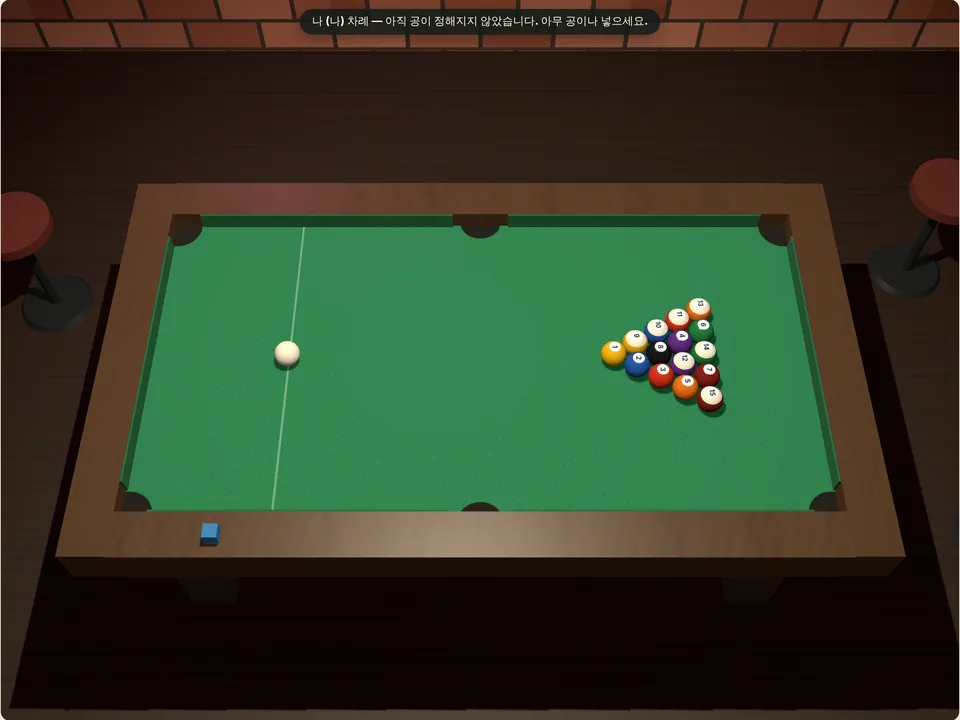
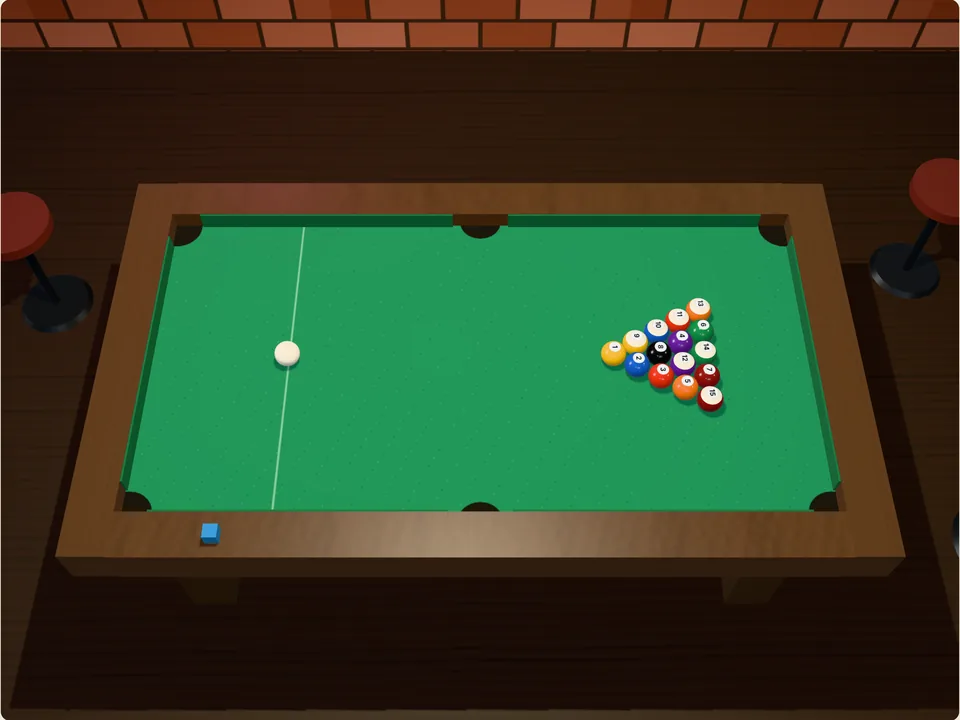
Chess, pocket ball and the grill are lit the more photographic way
Claude-Session: https://claude.ai/code/session_01Uedx1uYtd54DPXXtQh77nN

diff --git a/src/engine/scene-utils.ts b/src/engine/scene-utils.ts
@@ -1,4 +1,5 @@
 import * as T from "three";
+import { RoomEnvironment } from "three/examples/jsm/environments/RoomEnvironment.js";
 const ndc = new T.Vector2();
 /** Points `ray` from the camera through the pointer's place on the canvas. */
 export function aim(ray: T.Raycaster, e: PointerEvent, canvas: HTMLCanvasElement, camera: T.Camera) {
@@ -95,4 +96,37 @@ export function wood(dark = false, grain = 1) {
   texture.colorSpace = T.SRGBColorSpace;
   texture.wrapS = texture.wrapT = T.RepeatWrapping;
   return texture;
+}
+
+/**
+ * A more photographic light for a table. A room is reflected in whatever shines (china, metal, glass, glazed
+ * pieces), highlights roll off as on film instead of clipping, shadows have soft edges, and a weak light from the
+ * far side and one from behind give the pieces a second lit edge.
+ */
+export function realism(renderer: T.WebGLRenderer, scene: T.Scene, exposure = 1) {
+  renderer.toneMapping = T.NeutralToneMapping;
+  renderer.toneMappingExposure = exposure;
+  renderer.shadowMap.type = T.PCFSoftShadowMap;
+  const pmrem = new T.PMREMGenerator(renderer),
+    room = new RoomEnvironment(),
+    reflected = pmrem.fromScene(room, 0.04).texture;
+  scene.environment = reflected;
+  scene.environmentIntensity = 0.32;
+  room.dispose();
+  pmrem.dispose();
+  scene.traverse((thing) => {
+    // The room now lights the shaded sides: the flat sky light gives way to it.
+    if (thing instanceof T.HemisphereLight) thing.intensity *= 0.62;
+    else if (thing instanceof T.DirectionalLight && thing.castShadow) {
+      thing.shadow.mapSize.set(2048, 2048);
+      thing.shadow.radius = 5;
+      thing.shadow.blurSamples = 16;
+    }
+  });
+  const fill = new T.DirectionalLight("#cfe0ff", 0.22),
+    rim = new T.DirectionalLight("#fff0d8", 0.4);
+  fill.position.set(7, 5, 3);
+  rim.position.set(2, 6, -9);
+  scene.add(fill, rim);
+  return reflected;
 }

diff --git a/src/games/chess/view.ts b/src/games/chess/view.ts
@@ -1,6 +1,6 @@
 import * as T from "three";
 import type { Chess, Color, Move, PieceSymbol, Square } from "chess.js";
-import { wood, disposeScene, afterGPUFrame, aim } from "../../engine/scene-utils";
+import { wood, disposeScene, afterGPUFrame, aim, realism } from "../../engine/scene-utils";
 import { toWorld, fromWorld, squares } from "./coordinates";
 import {
   FOV,
@@ -86,6 +86,7 @@ export class ChessView {
     });
     sun.shadow.normalBias = 0.025;
     this.scene.add(sun);
+    this.reflected = realism(this.renderer, this.scene);
     const table = new T.Mesh(
       new T.BoxGeometry(80, 0.2, 80),
       new T.MeshStandardMaterial({ map: wood(true), roughness: 0.8 }),
@@ -546,12 +547,14 @@ export class ChessView {
     );
     this.resize(true);
   }
+  private reflected?: T.Texture;
   dispose() {
     if (this.disposed) return;
     this.disposed = true;
     cancelAnimationFrame(this.raf);
     this.observer.disconnect();
     this.cancelGPU();
+    this.reflected?.dispose();
     disposeScene(this.scene);
     disposeScene(this.templates);
     this.tokens.clear();

diff --git a/src/games/table/view.ts b/src/games/table/view.ts
@@ -1,5 +1,5 @@
 import * as T from "three";
-import { afterGPUFrame, aim } from "../../engine/scene-utils";
+import { afterGPUFrame, aim, realism } from "../../engine/scene-utils";
 import { FOV, cameraDistance, type Subject } from "../../engine/camera";
 import type { PointView } from "../../ui/point-game";
 import type { Marks } from "../points/view";
@@ -137,7 +137,12 @@ export abstract class TableView<S> implements PointView<S> {
     this.observer.observe(host);
   }
   /** Starts drawing; called by the game's view once its scene is built. */
+  /** Whether the table is lit the more photographic way (`realism`): a reflected room, film-like highlights, soft shadows. */
+  protected photographic() {
+    return false;
+  }
   protected begin() {
+    if (this.photographic()) this.own(realism(this.renderer, this.scene));
     this.resize();
     const loop = () => {
       this.raf = requestAnimationFrame(loop);

diff --git a/src/games/grill/view.ts b/src/games/grill/view.ts
@@ -279,6 +279,9 @@ interface Model {
  * dragged off to be eaten or onto the wrap plate.
  */
 export class GrillView extends TableView<State> {
+  protected photographic() {
+    return true;
+  }
   private world: World = createWorld();
   private skins = new Map<number, T.CanvasTexture>();
   private faces: { top: T.BufferGeometry; bottom: T.BufferGeometry; rim: T.BufferGeometry }[] = [];

diff --git a/src/games/pool/view.ts b/src/games/pool/view.ts
@@ -65,6 +65,9 @@ function numberDisc(id: number) {
 }
 /** A pool table under a lamp in a pub. */
 export class PoolView extends FlickView<State> {
+  protected photographic() {
+    return true;
+  }
   /** White against the cloth. */
   protected aimColor() {
     return "#ffffff";

diff --git a/README.md b/README.md
@@ -348,7 +348,7 @@ CHROMIUM_PATH=/usr/bin/chromium npm run test:e2e
 - **불 켜기 (Lights On)**: 3×3부터 7×7까지의 등불 판. 누르면 그 불과 상하좌우가 뒤집히며, 모든 불을 켜면 성공입니다. 문제는 다 켜진 판에서 무작위로 눌러 만들어 반드시 풀리고, 최소 횟수는 GF(2) 소거로 구합니다(`solve` in `lights/rules.ts`). '라이츠 아웃'으로 알려진 퍼즐을 거꾸로 한 것이며 이름은 일반 이름을 씁니다. 퍼즐 판을 씁니다.
 - **지뢰찾기 (Minesweeper)**: 쉬움 8×8(지뢰 10), 보통 12×10(20), 어려움 18×12(40). 지뢰는 첫 칸을 연 뒤 그 칸과 둘레를 피해 묻힙니다. 깃발 꽂기 버튼(F)으로 깃발을 꽂고, 깃발 수가 맞는 숫자를 누르면 둘레가 한꺼번에 열립니다. 무르기는 없습니다.
 - **과일 합치기 (Fruit Merge)**: 유리 상자에 과일을 떨어뜨려 같은 과일끼리 합칩니다(블루베리 → 체리 → 라임 → 자두 → 귤 → 사과 → 자몽 → 코코넛 → 멜론 → 수박). 실시간이며 일시정지할 수 있습니다. 상자는 `fruit/sim.ts`가 고정 간격으로 계산하고(Three.js·DOM 없음), 화면은 떨어뜨림·합쳐짐·넘침만 수로 보고합니다. '수박 게임'으로 알려진 놀이이며 과일의 종류·순서·그림은 따로 만들었습니다.
-- **고기 굽기 (Meat Grill)**: 숯불 화로를 가운데 둔 고깃집 식탁을 위에서 본 3D 화면입니다. 양옆 접시 다섯 개(삼겹살·양념갈비·차돌박이·목살·새송이버섯)의 고기를 불판 일곱 자리로 **끌어다 놓고**, 눌러서 몇 번이든 뒤집고, 불판 밖으로 끌어내 먹습니다. 접시가 비면 바로 채워집니다. 아래쪽 면만 익으며, 눈금 없이 연기와 고기 색으로 익은 정도를 알아봅니다(옅은 연기 1점, 흰 연기 3점, 양쪽 다 딱 좋으면 6점). 큰 접시에 쌈채소·고기(두 점까지)·양념(김치·쌈장·마늘·고추·기름장)을 올려 **쌈**을 싸 먹으면 고기 점수에 쌈 2점과 양념 한 가지당 1점(세 가지까지)이 붙습니다. **일반 모드**(120초 동안 점수 내기)와 **무제한 모드**가 있습니다. 식탁 상판은 Poly Haven의 CC0 사진 텍스처이고, 삼겹살·양념갈비·차돌박이·목살은 WordPress Photo Directory의 CC0 사진에서 잘라낸 살코기 사진 위에 익은 색을 입힙니다(버섯은 코드로 그립니다; 출처는 `public/textures-license.txt`). 상추와 양념 그릇 네 가지(김치·쌈장·마늘과 고추·기름장)도 같은 곳의 CC0 사진입니다. 실시간이며 일시정지할 수 있습니다. 모두 46종입니다.
+- **고기 굽기 (Meat Grill)**: 숯불 화로를 가운데 둔 고깃집 식탁을 위에서 본 3D 화면입니다. 양옆 접시 다섯 개(삼겹살·양념갈비·차돌박이·목살·새송이버섯)의 고기를 불판 일곱 자리로 **끌어다 놓고**, 눌러서 몇 번이든 뒤집고, 불판 밖으로 끌어내 먹습니다. 접시가 비면 바로 채워집니다. 아래쪽 면만 익으며, 눈금 없이 연기와 고기 색으로 익은 정도를 알아봅니다(옅은 연기 1점, 흰 연기 3점, 양쪽 다 딱 좋으면 6점). 큰 접시에 쌈채소·고기(두 점까지)·양념(김치·쌈장·마늘·고추·기름장)을 올려 **쌈**을 싸 먹으면 고기 점수에 쌈 2점과 양념 한 가지당 1점(세 가지까지)이 붙습니다. **일반 모드**(120초 동안 점수 내기)와 **무제한 모드**가 있습니다. 식탁 상판은 Poly Haven의 CC0 사진 텍스처이고, 삼겹살·양념갈비·차돌박이·목살은 WordPress Photo Directory의 CC0 사진에서 잘라낸 살코기 사진 위에 익은 색을 입힙니다(버섯은 코드로 그립니다; 출처는 `public/textures-license.txt`). 상추와 양념 그릇 네 가지(김치·쌈장·마늘과 고추·기름장)도 같은 곳의 CC0 사진입니다. 체스·포켓볼과 함께 실내 반사와 부드러운 그림자를 쓰는 사실적인 조명으로 그립니다. 실시간이며 일시정지할 수 있습니다. 모두 46종입니다.
 
 - **물 나누기 (Water Pouring)**: 실험실의 눈금 없는 비커 세 개. 부으면 비커를 들어 기울여 붓는 모습과 물줄기가 보입니다. 가장 큰 그릇만 가득 차 있고, 부으면 붓는 쪽이 비거나 받는 쪽이 찰 때까지 옮겨집니다. 목표는 둘 중 하나가 무작위로 정해집니다: 큰 그릇 둘에 **절반씩 나누기**, 또는 **어느 그릇에든 정해진 양 만들기**. 그릇의 크기도 할 때마다 무작위이고, 탐색으로 풀리는 문제만 냅니다(`createGame` in `pour/rules.ts`). **최소 횟수**를 함께 구해 오른쪽 판에 부은 횟수와 나란히 보여 주고, 성공하면 견주어 알려 줍니다. 난이도는 최소 횟수로 나뉩니다(쉬움 2–4, 보통 5–7, 어려움 8번 이상). 구슬치기와 같은 퍼즐 판(난이도·힌트·무르기·처음부터·다른 퍼즐·다음 스테이지)을 씁니다.
 - **강 건너기 (River Crossing)**: 강가의 일행을 작은 배로 모두 건너편에 옮깁니다. 사람과 동물은 코드로 빚은 모형입니다. 스테이지 넷: **농부와 짐**(늑대·염소·양배추, 여우·닭·곡식, 고양이·쥐·치즈 가운데 무작위; 농부만 노를 젓습니다), **양과 늑대**(셋씩, 배에 둘), **질투하는 부부**(세 쌍, 배에 둘), **큰 무리**(양·늑대 넷씩이나 다섯씩 또는 부부 네 쌍, 배에 셋). 탈 이를 눌러 태우고 배를 누르면 건넙니다. 규칙을 어기는 수를 두면 무엇이 잘못됐는지와 함께 **실패**로 보여 주고, 무르기나 처음부터로 이어서 합니다. 최소 횟수는 탐색(`solve` in `river/rules.ts`)으로 구해 건넌 횟수와 견줍니다. 일행은 무리의 크기에 맞춰 줄을 지어 서므로(작은 무리는 크게, 큰 무리는 작게) 서로 겹치지 않습니다. 강물이 흐르고, 배 둘레에 물결이 퍼지고, 꼬리가 흔들리며, 실패하면 문제가 된 이들 머리 위에 빨간 느낌표가 뜹니다. 구슬치기와 같은 퍼즐 판을 씁니다.

diff --git a/AGENTS.md b/AGENTS.md
@@ -119,3 +119,4 @@
 - Asked by the user after that, so keep each: the aiming line of the flicked games is a short row of round dots along the way the shot will go and nothing on the side of the pull (`FlickView`: `DOT`, laid at the height of the discs so that it lines up with the cue in pocket ball); the tower of Hanoi is done when the whole tower stands on either peg other than the first (`hint` makes for the nearer); checkmate is told across the table like a check (체크메이트); each hand of seotda and stud tells 승리 or 패배 for seat 0 (`shout` in `betting-game.ts`); the cheers of yut and Ludo (잡았다!, 잡혔다!) use the same heavy white letters (`cheer` calls `shout`); a goal in table soccer tells GOAL (`PointConfig.cheer`).
 - There is no window at the end of a game for now (the user asked for every result popup to go, "for the time being"): `RESULT_WINDOWS` in `src/ui/chrome.ts` is false, so `announce` does nothing and gomoku, Reversi and chess skip their own end dialogs; the result is told by the status line and the panel. Do not turn it back on unasked; the code of the windows is kept for when it is.
 - With no window at the end, `dress` keeps the status line on the result block's sentence for as long as the block is shown (the screens' own "게임이 끝났습니다." told nothing). The grill's clock keeps the wall clock's time whatever the frame rate (`advance` adds the real time gone by, up to 0.3s a frame): capped at a twentieth of a second a frame it ran several times too slow on a slow screen.
+- Chess, pocket ball and the meat grill are lit the more photographic way (the user saw a trial and asked for it to be applied): `realism` in `src/engine/scene-utils.ts` sets neutral tone mapping, soft shadows, a reflected room (`RoomEnvironment` through `PMREMGenerator`, at 0.32), lowers the sky light and adds a weak fill and rim light. A `TableView` asks for it by overriding `photographic()`; chess calls it itself and disposes the reflected texture. The first trial at full strength washed the tables out: keep the values low, and look at a table before giving it this light (each was tuned for the plain light).

diff --git a/ROADMAP.md b/ROADMAP.md
@@ -226,6 +226,7 @@
 - [x] 고기 굽기: 끌어다 놓기로만 올리기, 접시 자동 채움, 쌈 싸기, 일반·무제한 모드, 익는 시간 조금 늘림, 식탁 사진 텍스처(CC0)
 - [x] 고기 굽기의 고기 네 가지를 CC0 사진으로(익는 색은 사진 위에 입힘)
 - [x] 고기 굽기의 상추와 양념 그릇도 CC0 사진으로
+- [x] 체스·포켓볼·고기 굽기에 사실적인 조명(실내 반사, 톤 매핑, 부드러운 그림자, 보조광·역광)
 - [x] 과일 합치기 마찰 낮춤 / 하노이의 탑 끌어다 놓기 / 불 끄기 → 불 켜기 / 첫 화면 상단 바 제거와 제목 변경 / 게임 설명 창 열림 애니메이션
 - [x] 하노이 원판 구멍과 끌어 올려 빼기 / 설명 창 느리게 열림, 안내 문구 삭제 / 조준선 점선(알까기·카롬 검정, 포켓볼 흰색) / 인디언 포커 버튼 이름과 자리 고정 / 체크·장군 큰 글씨
 - [x] 조준선을 짧은 둥근 점으로 / 하노이는 다른 기둥 어디든 성공 / 체크메이트·승리·패배·GOAL 문구, 잡았다 문구 통일 / 게임 결과 창 모두 끔(당분간)
